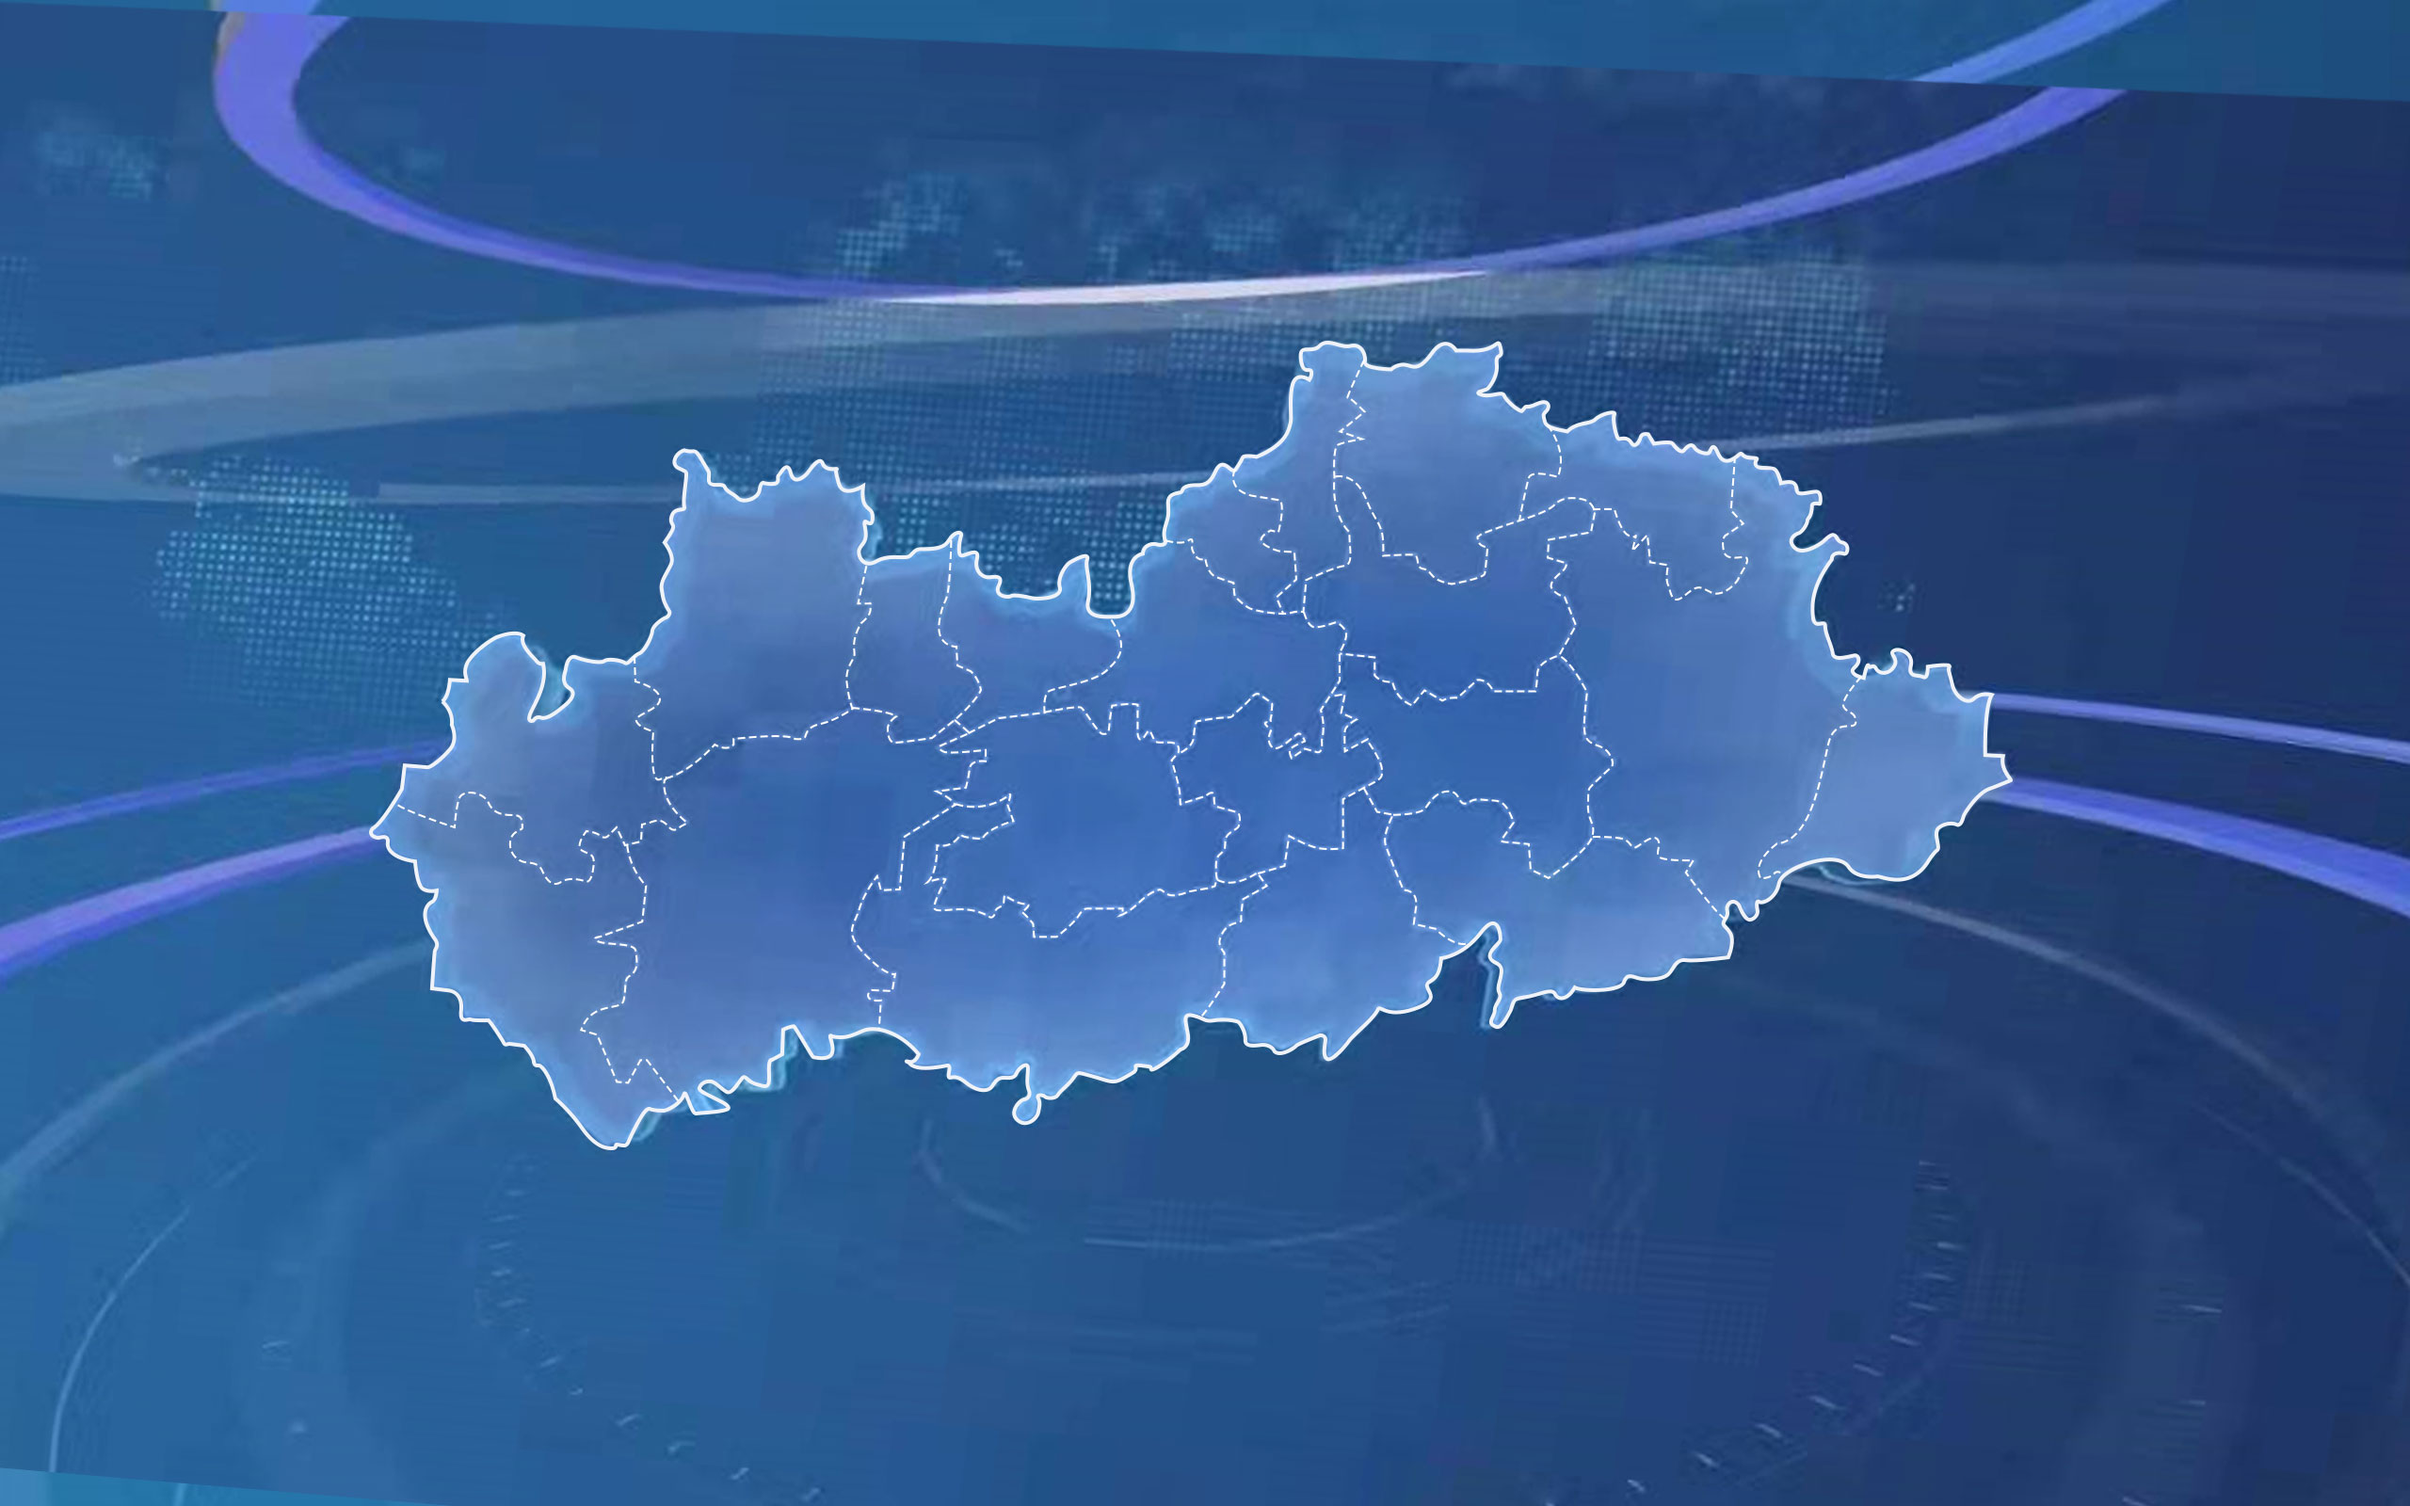
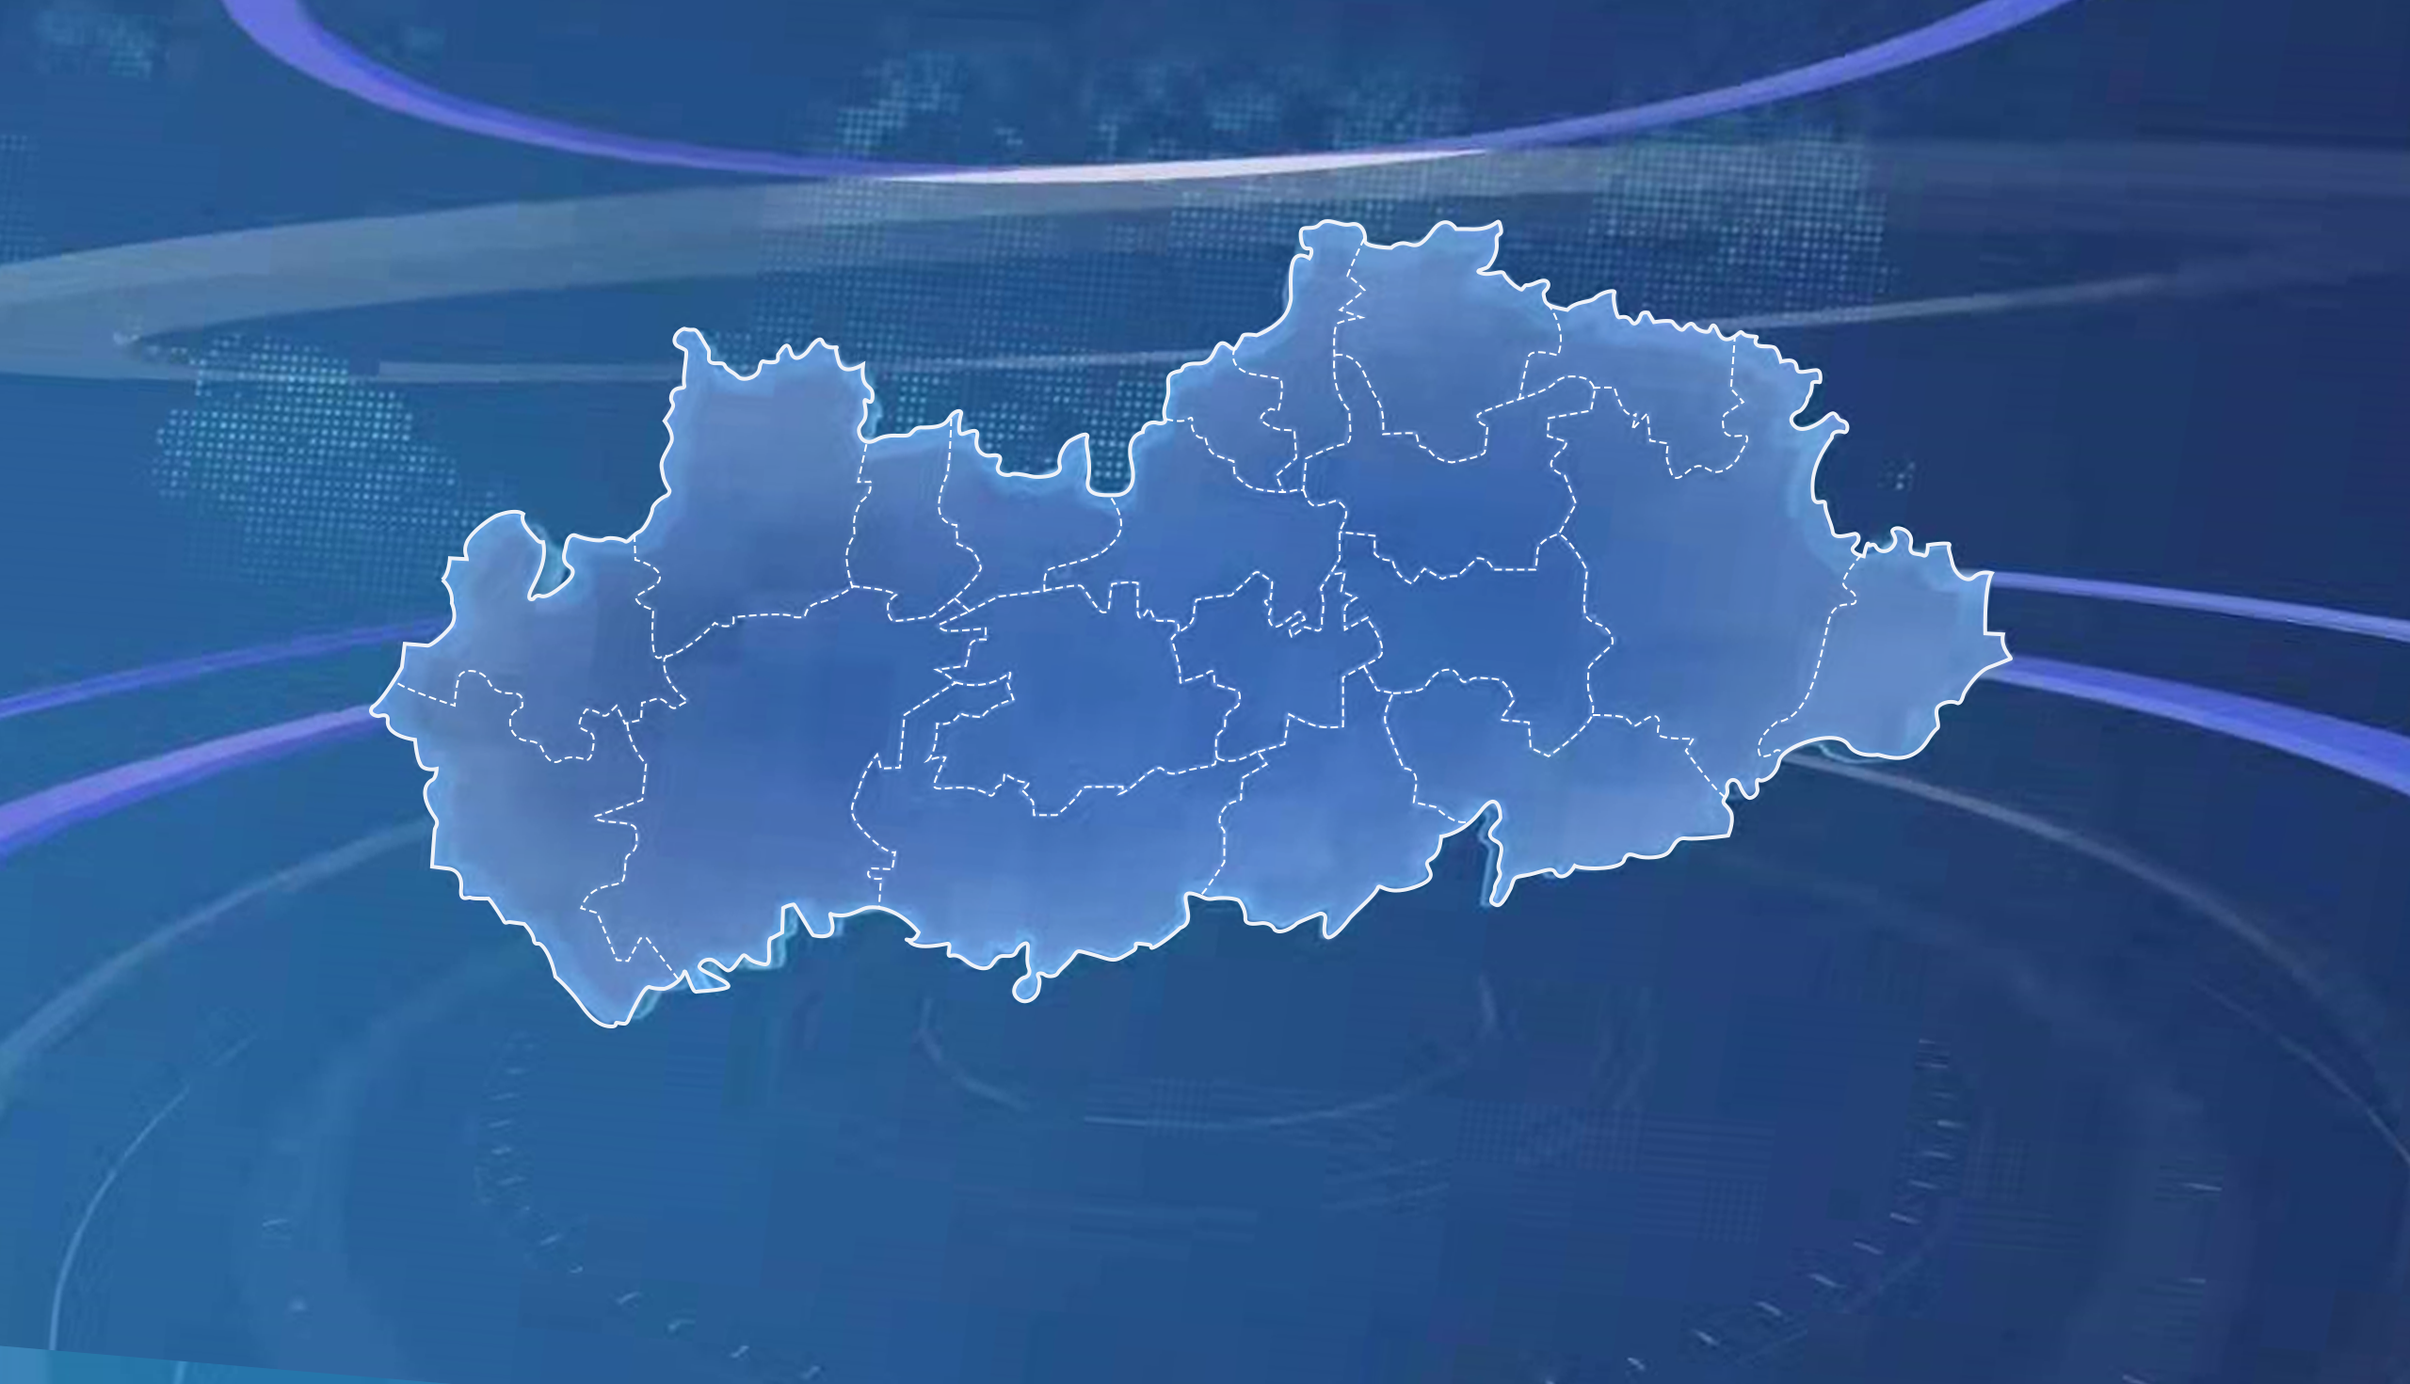
fix: 静态资源

diff --git a/src/api/profile.js b/src/api/profile.js
@@ -18,7 +18,10 @@ export function fetchProjectDetail(projectId) {
     contacts: result.contacts,
     media: _.map(result.fileList, ({ filePath, fileType }) => ({
       src: filePath,
-      type: fileType === '.jpg' || fileType === '.png' ? 'image' : 'video'
+      type:
+        fileType === '.jpg' || fileType === '.png' || fileType === '.jpeg'
+          ? 'image'
+          : 'video'
     }))
   }));
 }
@@ -33,8 +36,22 @@ export function fetchProjectList() {
     working: result.zaiJian,
     planing: result.zhengQian,
     list: _.map(
-      _.concat(result.junGongList, result.kaiGongList, result.zaiJianList, result.zhengQianList),
-      ({ id, latitudes, longitudes, projectName, projectType, tags, imp, model }) => ({
+      _.concat(
+        result.junGongList,
+        result.kaiGongList,
+        result.zaiJianList,
+        result.zhengQianList
+      ),
+      ({
+        id,
+        latitudes,
+        longitudes,
+        projectName,
+        projectType,
+        tags,
+        imp,
+        model
+      }) => ({
         id,
         position: [longitudes, latitudes],
         title: projectName,
@@ -52,16 +69,20 @@ export function fetchProjectList() {
  * @param {*} projectId
  */
 export function fetchProjectSignList(projectId, pageNo = 1, pageSize = 500) {
-  return instance.get('/project/sign/list', {
-    params: {
-      projectId,
-      pageNo,
-      pageSize
-    }
-  }).then(({ result }) => _.map(result.records, ({ fileList, ...record }) => ({
-    ...record,
-    fileList: _.map(fileList, ({ filePath }) => filePath)
-  })));
+  return instance
+    .get('/project/sign/list', {
+      params: {
+        projectId,
+        pageNo,
+        pageSize
+      }
+    })
+    .then(({ result }) =>
+      _.map(result.records, ({ fileList, ...record }) => ({
+        ...record,
+        fileList: _.map(fileList, ({ filePath }) => filePath)
+      }))
+    );
 }
 
 /**
@@ -73,7 +94,10 @@ export function fetchTourDetail(areaId) {
     content: result.content,
     media: _.map(result.fileList, ({ filePath, fileType }) => ({
       src: filePath,
-      type: fileType === '.jpg' || fileType === '.png' ? 'image' : 'video'
+      type:
+        fileType === '.jpg' || fileType === '.png' || fileType === '.jpeg'
+          ? 'image'
+          : 'video'
     }))
   }));
 }
@@ -106,7 +130,10 @@ export function fetchTownDetail(areaId) {
     name: 'Village Profile',
     media: _.map(result.fileList, ({ filePath, fileType }) => ({
       src: filePath,
-      type: fileType === '.jpg' || fileType === '.png' ? 'image' : 'video'
+      type:
+        fileType === '.jpg' || fileType === '.png' || fileType === '.jpeg'
+          ? 'image'
+          : 'video'
     }))
   }));
 }
@@ -139,7 +166,10 @@ export function fetchGeothermalDetail(areaId) {
       name: 'Geothermal Conditions',
       media: _.map(result.fileList, ({ filePath, fileType }) => ({
         src: filePath,
-        type: fileType === '.jpg' || fileType === '.png' ? 'image' : 'video'
+        type:
+          fileType === '.jpg' || fileType === '.png' || fileType === '.jpeg'
+            ? 'image'
+            : 'video'
       }))
     }));
 }
@@ -172,7 +202,10 @@ export function fetchElectricDetail(areaId) {
       name: 'Electric Conditions',
       media: _.map(result.fileList, ({ filePath, fileType }) => ({
         src: filePath,
-        type: fileType === '.jpg' || fileType === '.png' ? 'image' : 'video'
+        type:
+          fileType === '.jpg' || fileType === '.png' || fileType === '.jpeg'
+            ? 'image'
+            : 'video'
       }))
     }));
 }
@@ -204,7 +237,10 @@ export function fetchWaterDetail(areaId) {
       content: result.content,
       media: _.map(result.fileList, ({ filePath, fileType }) => ({
         src: filePath,
-        type: fileType === '.jpg' || fileType === '.png' ? 'image' : 'video'
+        type:
+          fileType === '.jpg' || fileType === '.png' || fileType === '.jpeg'
+            ? 'image'
+            : 'video'
       }))
     }));
 }
@@ -235,7 +271,10 @@ export function fetchPromoteDetail(areaId) {
     content: result.content,
     media: _.map(result.fileList, ({ filePath, fileType }) => ({
       src: filePath,
-      type: fileType === '.jpg' || fileType === '.png' ? 'image' : 'video'
+      type:
+        fileType === '.jpg' || fileType === '.png' || fileType === '.jpeg'
+          ? 'image'
+          : 'video'
     }))
   }));
 }
@@ -279,7 +318,10 @@ export function fetchHotelDetail(areaId) {
       content: result.content,
       media: _.map(result.fileList, ({ filePath, fileType }) => ({
         src: filePath,
-        type: fileType === '.jpg' || fileType === '.png' ? 'image' : 'video'
+        type:
+          fileType === '.jpg' || fileType === '.png' || fileType === '.jpeg'
+            ? 'image'
+            : 'video'
       }))
     }));
 }

diff --git a/src/api/mobile.js b/src/api/mobile.js
@@ -11,25 +11,33 @@ const instance = createInstance({
  * @param {string} password
  */
 export function login(username, password) {
-  return instance.post('/xiangcun/userLogin', {
-    username,
-    password
-  }).then(({ result }) => {
-    localStorage.setItem(TOKEN, result.token);
-    localStorage.setItem(USER_INFO, JSON.stringify(result.userInfo));
-  });
+  return instance
+    .post('/xiangcun/userLogin', {
+      username,
+      password
+    })
+    .then(({ result, code, message }) => {
+      if (code === 200) {
+        localStorage.setItem(TOKEN, result.token);
+        localStorage.setItem(USER_INFO, JSON.stringify(result.userInfo));
+        return message;
+      }
+      throw new Error(message);
+    });
 }
 
 /**
  * 获取登录人自己负责的项目列表
  */
 export function fetchUserProjects() {
-  return instance.get('/profession/xiangcun/project/list', {
-    params: {
-      pageNo: 1,
-      pageSize: 500
-    }
-  }).then(({ result: { records } }) => records);
+  return instance
+    .get('/profession/xiangcun/project/list', {
+      params: {
+        pageNo: 1,
+        pageSize: 500
+      }
+    })
+    .then(({ result: { records } }) => records);
 }
 
 /**
@@ -38,53 +46,70 @@ export function fetchUserProjects() {
  * @param {string} password
  */
 export function check(params) {
-  return instance.post('/profession/xiangcun/sign/add', params).then(({ code }) => {
-    if (code !== 200) {
-      throw new Error('操作失败');
-    }
+  return instance
+    .post('/profession/xiangcun/sign/add', params)
+    .then(({ code }) => {
+      if (code !== 200) {
+        throw new Error('操作失败');
+      }
 
-    return true;
-  });
+      return true;
+    });
 }
 
 /**
  * 查看某个项目的打卡记录
  */
 export function fetchUserCheckedRecord(projectId) {
-  return instance.post('/profession/xiangcun/sign/list', {}, {
-    params: {
-      pageNo: 1,
-      pageSize: 500,
-      projectId
-    }
-  }).then(({ result: { records } }) => records);
+  return instance
+    .post(
+      '/profession/xiangcun/sign/list',
+      {},
+      {
+        params: {
+          pageNo: 1,
+          pageSize: 500,
+          projectId
+        }
+      }
+    )
+    .then(({ result: { records } }) => records);
 }
 
 /**
  * 获取乡村振兴的项目列表
  */
 export function fetchProjects() {
-  return instance.get('/profession/xiangcun/zxArea/list', {
-    params: {
-      pageNo: 1,
-      pageSize: 500
-    }
-  }).then(({ result }) => result);
+  return instance
+    .get('/profession/xiangcun/zxArea/list', {
+      params: {
+        pageNo: 1,
+        pageSize: 500
+      }
+    })
+    .then(({ result }) => result);
 }
 
 /**
  * 获取乡村振兴的项目列表
  */
-export function updatePassword(username, oldpassword, password, confirmpassword) {
-  return instance.put('/sys/user/updatePassword', {
-    username,
-    password,
-    oldpassword,
-    confirmpassword
-  }).then(({ code, message }) => {
-    if (code === 200) {
-      return message;
-    }
-    throw new Error(message);
-  });
+export function updatePassword(
+  username,
+  oldpassword,
+  password,
+  confirmpassword
+) {
+  return instance
+    .put('/sys/user/updatePassword', {
+      username,
+      password,
+      oldpassword,
+      confirmpassword
+    })
+    .then(({ code, message }) => {
+      if (code === 200) {
+        return message;
+      }
+      throw new Error(message);
+    });
 }

diff --git a/src/views/Tour/SideBar.jsx b/src/views/Tour/SideBar.jsx
@@ -21,6 +21,10 @@ const tabs = [
   { name: 'shopping', label: '购', icon: iconPack }
 ];
 
+const isImage = (fileType) => {
+  return fileType === '.jpg' || fileType === '.png' || fileType === '.jpeg';
+};
+
 export default {
   name: 'TourSideBar',
 
@@ -57,7 +61,7 @@ export default {
       return (
         <div class="media">
           {this.state.article?.fileList?.map(({ filePath, fileType }) =>
-            fileType === '.jpg' || fileType === '.png' ? (
+            isImage(fileType) ? (
               <img src={filePath} vViewer />
             ) : (
               <div to={filePath} class="video">

diff --git a/src/mobile/views/Appendix.jsx b/src/mobile/views/Appendix.jsx
@@ -21,14 +21,16 @@ export default {
     imgList() {
       return _.filter(
         this.fileList,
-        ({ fileType }) => fileType === '.png' || fileType === '.jpg'
+        ({ fileType }) =>
+          fileType === '.png' || fileType === '.jpg' || fileType === '.jpeg'
       );
     },
 
     videoList() {
       return _.filter(
         this.fileList,
-        ({ fileType }) => fileType !== '.png' && fileType !== '.jpg'
+        ({ fileType }) =>
+          fileType !== '.png' && fileType !== '.jpg' && fileType !== '.jpeg'
       );
     }
   },

diff --git a/src/mobile/views/Login.jsx b/src/mobile/views/Login.jsx
@@ -24,9 +24,16 @@ export default {
     onSubmit() {
       this.$refs.form.validate(async (valid) => {
         if (valid) {
-          await login(this.form.username, this.form.password);
+          try {
+            await login(this.form.username, this.form.password);
 
-          this.$router.push('/');
+            this.$router.push('/');
+          } catch (err) {
+            this.$message({
+              message: err.message,
+              type: 'error'
+            });
+          }
         }
       });
     }

diff --git a/src/views/Home.module.less b/src/views/Home.module.less
@@ -3,8 +3,8 @@
   height: 100%;
   background-image: url('~@/assets/Bg/home-bg.jpg');
   background-repeat: no-repeat;
-  background-size: contain;
-  background-position: 0 50px;
+  background-size: 100% auto;
+  background-position: center 50px;
   background-color: #313a6d;
 
   :global .amap-icon {
@@ -84,7 +84,7 @@
 
     &.streetsName {
       position: absolute;
-      top: 31vh;
+      top: 18vw;
       left: 50%;
       width: 60vw;
       margin-left: -30vw;
